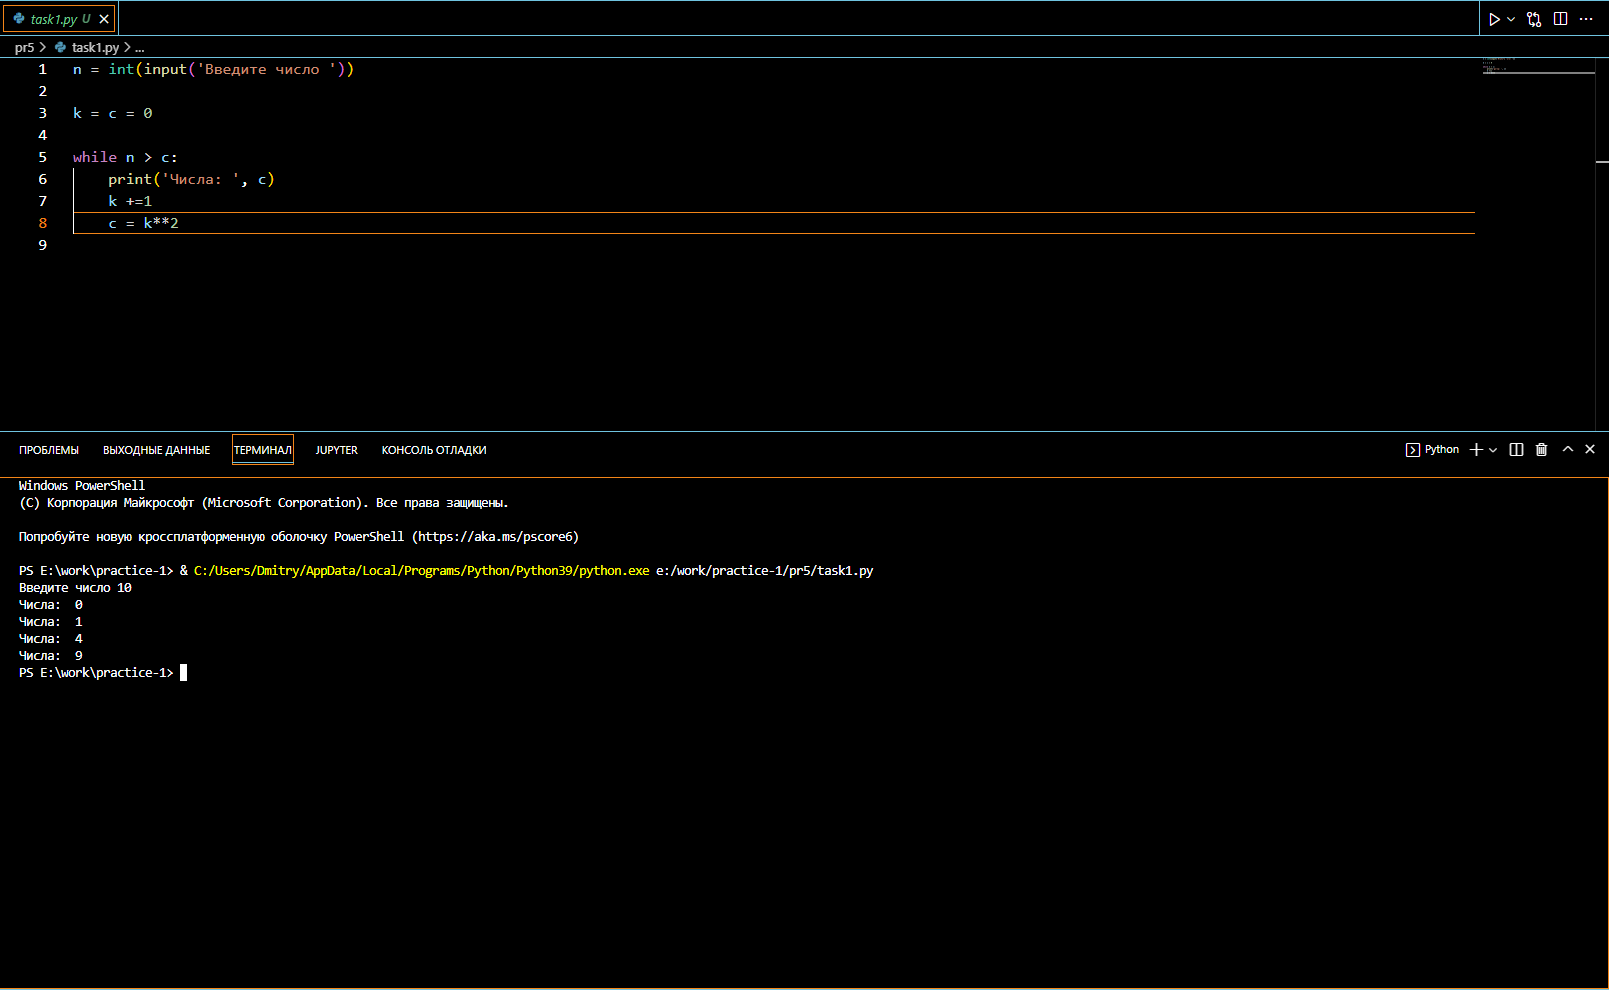
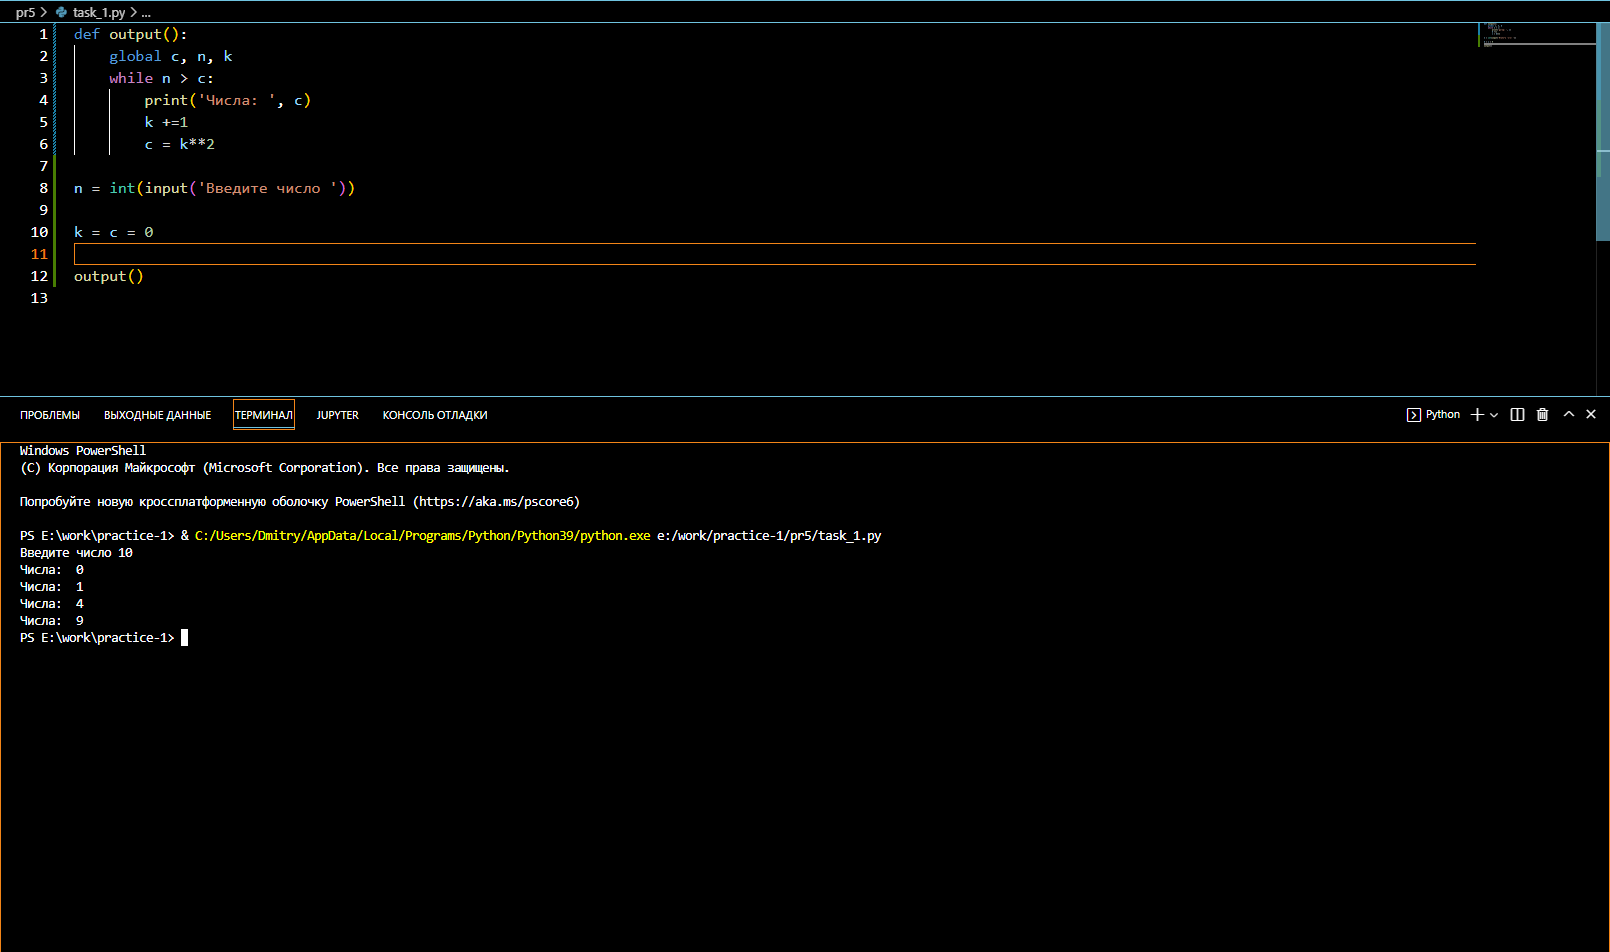
commit

Changed region(s): [[0.0, 0.0, 1.0, 0.3046], [0.0, 0.4265, 1.0, 0.7006], [0.0, 0.9748, 0.0311, 1.0]]

diff --git a/pr5/task_2.py b/pr5/task_2.py
@@ -1,10 +1,13 @@
+def output(): 
+    global d, n, k
+    while k >= 2:
+        if n % k == 0:
+            d = k
+        k -= 1
+    else: print('Наименьший делитель: ', d)
+
 n = int(input('Натуральное число >2: '))
 
 k =  n
 
-
-
-while k >= 2:
-    if n % k == 0:
-        print('Число: ', k)
-    k -= 1
+output()

diff --git a/pr5/task_1.py b/pr5/task_1.py
@@ -1,9 +1,13 @@
+def output(): 
+    global c, n, k
+    while n > c:
+        print('Числа: ', c)
+        k +=1
+        c = k**2
+
 n = int(input('Введите число '))
 
 k = c = 0
 
-while n > c:
-    print('Числа: ', c)
-    k +=1
-    c = k**2
+output()
     
